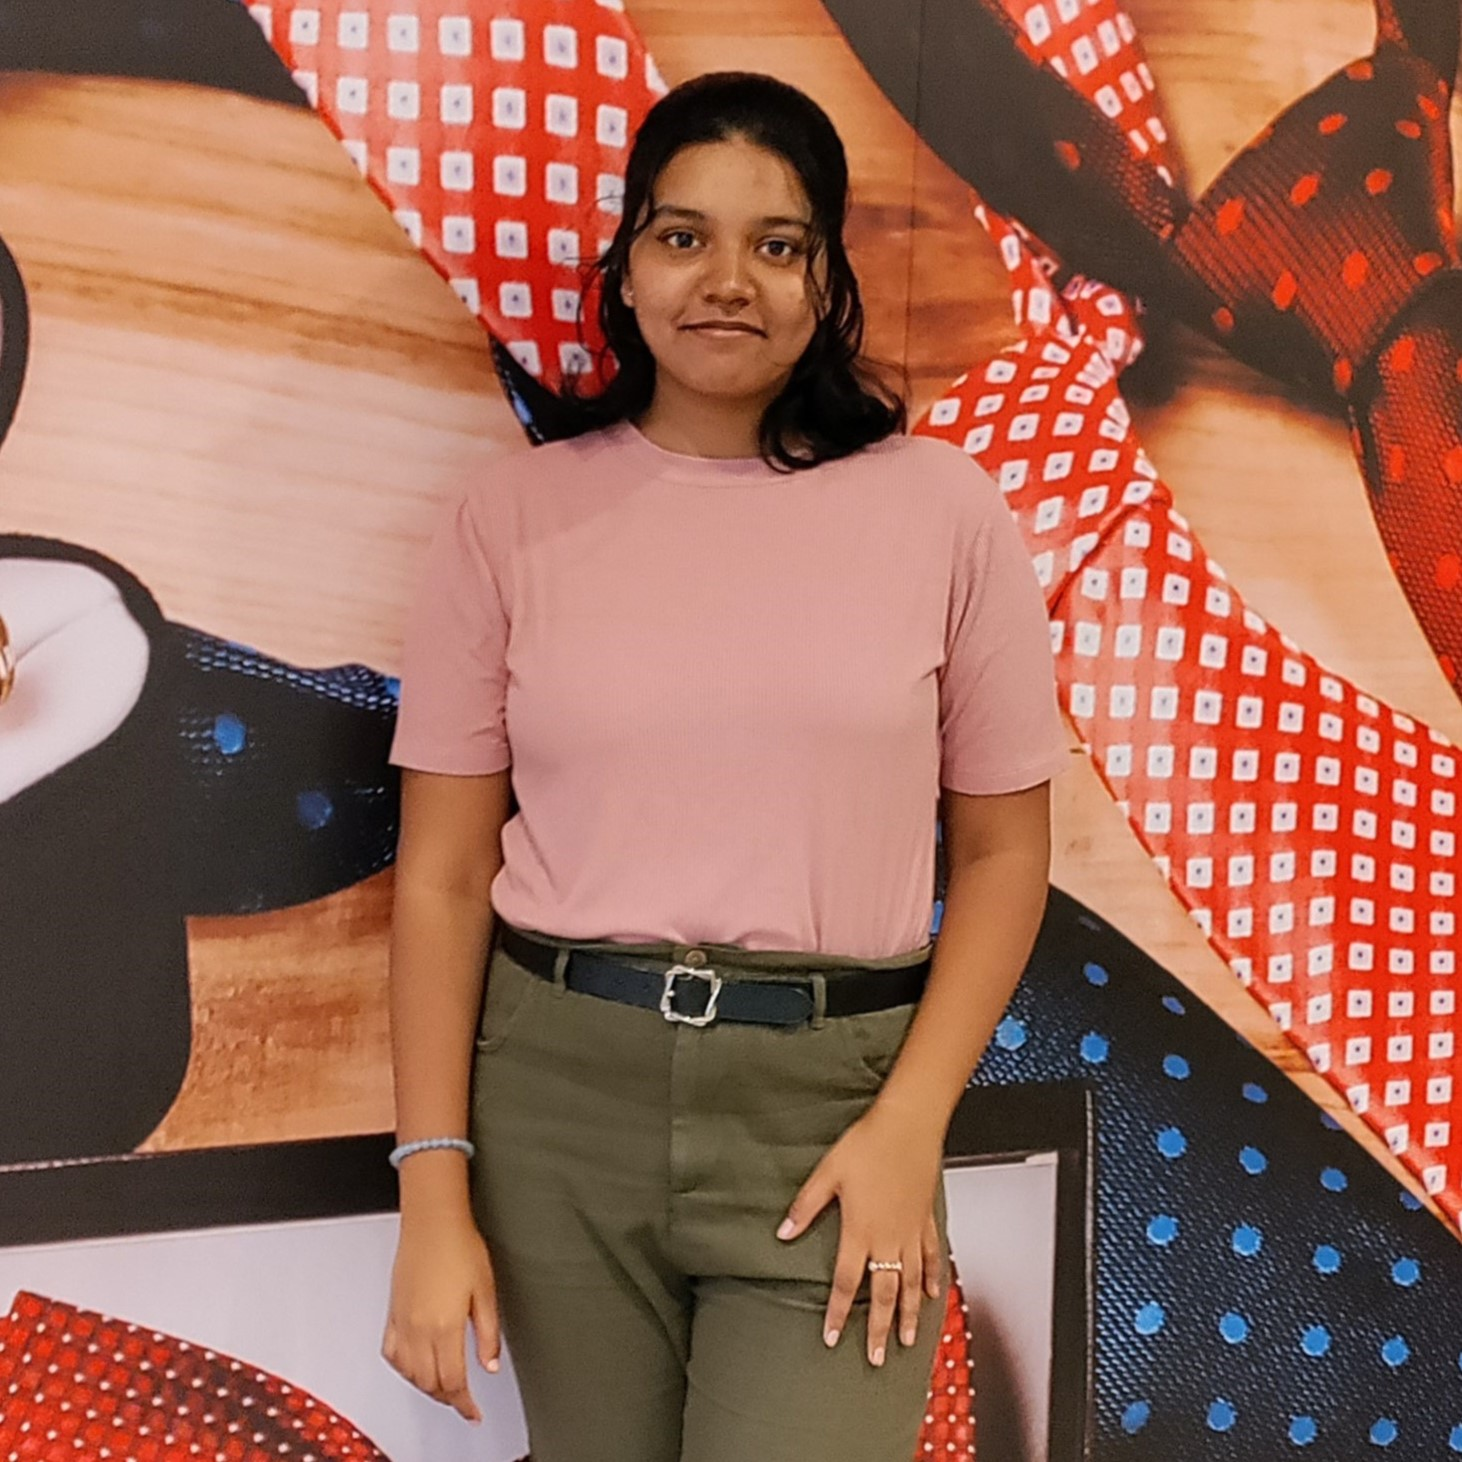
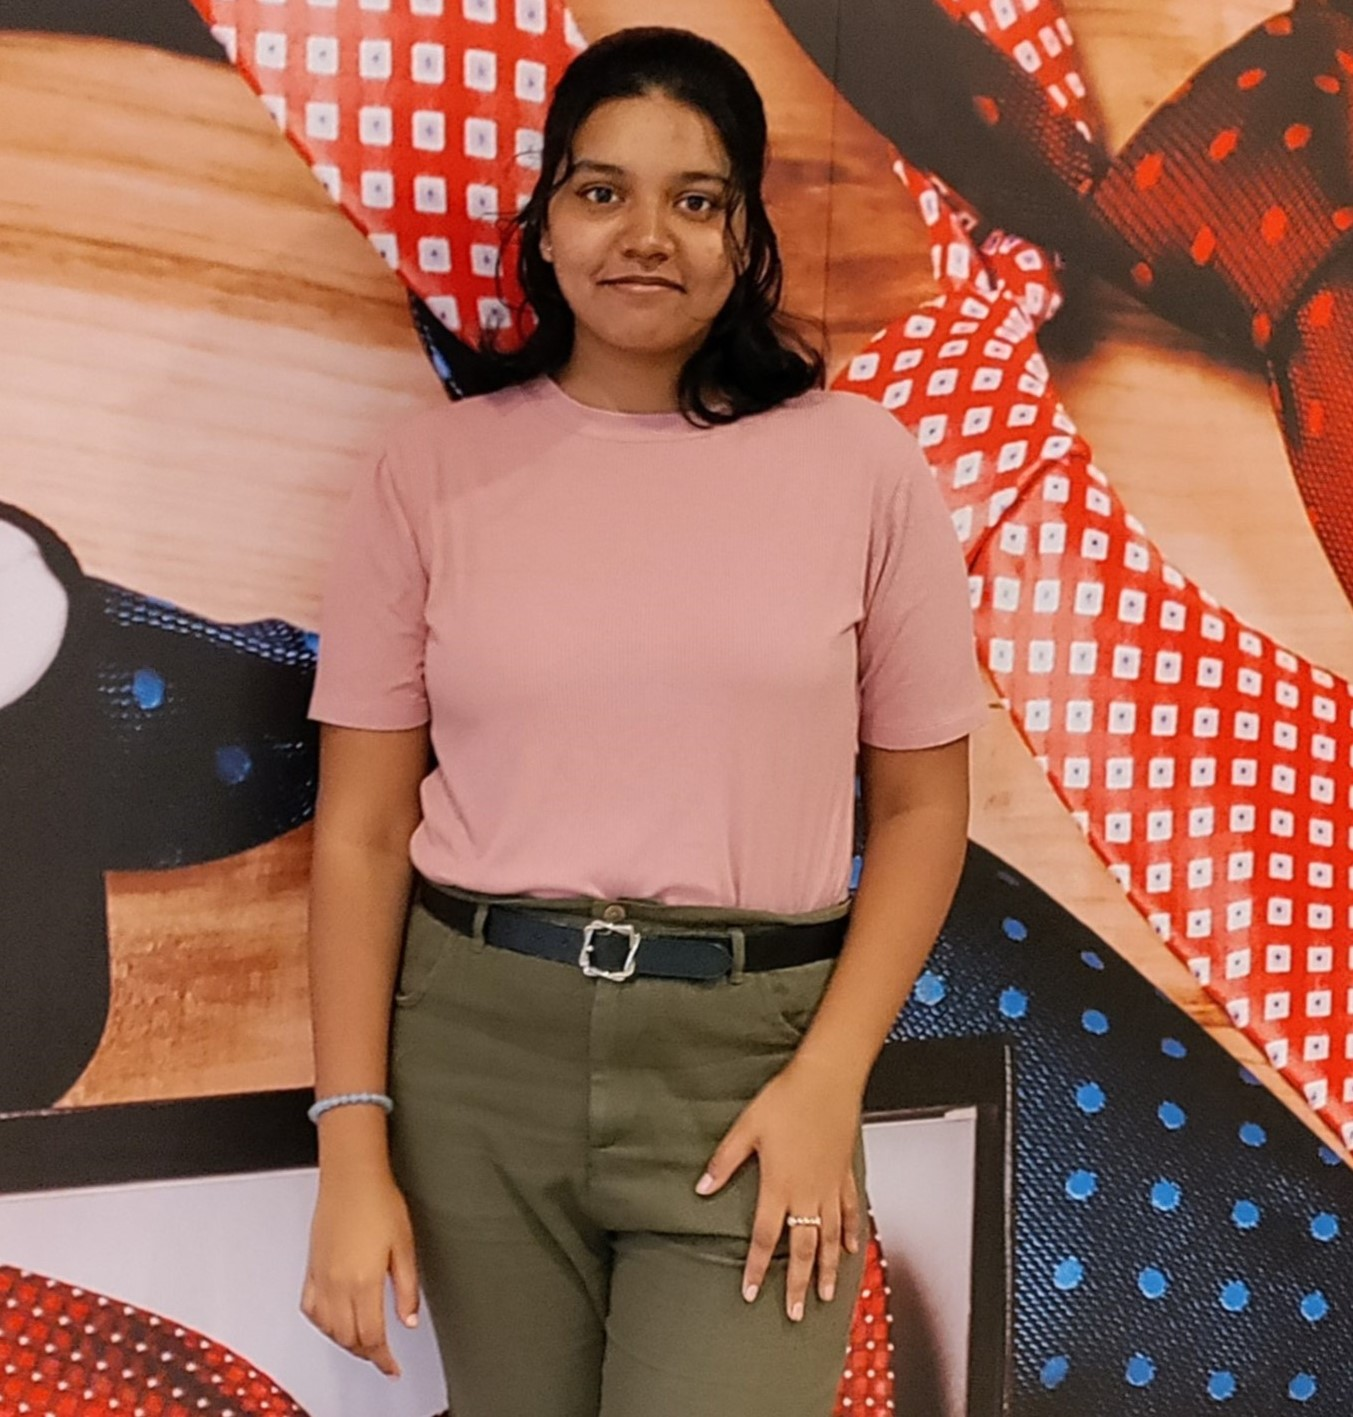
images

diff --git a/components/Team.jsx b/components/Team.jsx
@@ -447,7 +447,7 @@ const Team = () => {
         },
         {
             name: 'Susan Fernandes',
-            imgSrc:"/../public/assets/team/.jpeg",
+            imgSrc:"/../public/assets/team/susan.jpeg",
             position: 'GDSC Associate',
             linkedIn:'https://www.linkedin.com/in/susan-fernandes-3b6635256',
             Instagram: 'https://instagram.com/_susan_fernandes_?utm_source=qr&igshid=MzNlNGNkZWQ4Mg%3D%3D',
@@ -468,14 +468,14 @@ const Team = () => {
         },
         {
             name: 'Jefin John',
-            imgSrc:"/../public/assets/team/Jefin John.jpg",
+            imgSrc:"/../public/assets/team/Jefin.jpg",
             position: 'GDSC Associate',
             linkedIn:'https://www.linkedin.com/in/jefin-john-85996a1a6',
             Instagram: 'https://www.instagram.com/jefin3273/',
         },
         {
             name: 'Elita Gonsalves',
-            imgSrc:"/../public/assets/team/Elita Gonsalves.jpg",
+            imgSrc:"/../public/assets/team/Elita.jpg",
             position: 'GDSC Associate',
             linkedIn:'http://www.linkedin.com/in/elita-gonsalves-454679252',
             Instagram: 'https://www.instagram.com/elita_2215/',
@@ -496,7 +496,7 @@ const Team = () => {
         },
         {
             name: 'Iqra Khan',
-            imgSrc:"/../public/assets/team/iqra.jpg",
+            imgSrc:"/../public/assets/team/iqra.jpeg",
             position: 'GDSC Associate',
             linkedIn:'https://www.linkedin.com/in/iqrakhan04/',
             Instagram: '',
@@ -523,11 +523,14 @@ const Team = () => {
                                     <div className="flex justify-center -mt-[75px]">
                                         <Image 
                                             src={Member.imgSrc} 
-                                            className="mx-auto rounded-full shadow-lg w-[140px] h-[140px] hover:border-amber-100 hover:border-4 " 
+                                            className="mx-auto rounded-full shadow-lg w-[140px] h-[140px] hover:border-amber-100 hover:border-4" 
                                             alt="Avatar" 
-                                            width={100}
-                                            height={100}
+                                            
+                                            width={500}
+                                            height={500}
                                             quality={100}
+                                            
+                                            object-fit='cover'
                                         />
                                     </div>
                                 </div>
